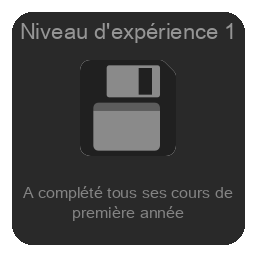
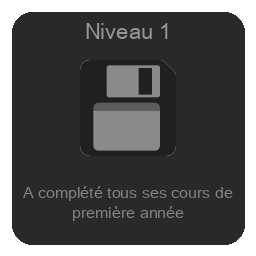
MàJ

Changed region(s): [[0.0625, 0.0938, 0.8438, 0.1562], [0.875, 0.0938, 0.9375, 0.1562]]

diff --git a/badges/README.md b/badges/README.md
@@ -1,3 +1,3 @@
 # 🎖 Badges générés
 
-![Brise-glace : A participé à l'activité brise-glace](brise_glace.png) ![Tome du savoir : A emprunté un document de la bibliothèque de la bibliographie suggérée](tome_savoir.png) ![Pilier de la communauté : A participé au comité étudiant](pilier_communaute.png) ![Sentinelle : A aidé à l'organisation du brise-glace (hors 1ère année)](sentinelle.png) ![Membre de la communauté : A participé à une activité du comité étudiant](membre_communaute.png) ![Tête chercheuse : A participé au tutorat en 1ère année](tete_chercheuse.png) ![Disciple aguerri : A participé au tutorat en 2ème année](disciple_aguerri.png) ![Flambeau du savoir : A été tutrice ou tuteur](flambeau_savoir.png) ![Héraut : A participé à faire rayonner le programme lors des portes ouvertes](heraut.png) ![Intendance extradimensionnelle : Responsabilité avec le prêt d'équipement collectif](intendance_extradimensionnelle.png) ![Scribe : A aidé à la mise à jour des badges](scribe.png) ![Quête optionnelle : A participé à un événement multimédia non requis](quete_optionnelle.png) ![Essayiste : A participé et été présent au concours d'essais audiovisuels](essayiste.png) ![Niveau d'expérience 1 : A complété tous ses cours de première année](niveau_experience_1.png) ![Niveau d'expérience 2 : A complété tous ses cours de deuxième année](niveau_experience_2.png) ![Niveau d'expérience 3 : A complété tous ses cours de troisième année](niveau_experience_3.png)
+![Brise-glace : A participé à l'activité brise-glace](brise_glace.png) ![Tome du savoir : A emprunté un document de la bibliothèque de la bibliographie suggérée](tome_savoir.png) ![Pilier : A participé au comité étudiant](pilier_communaute.png) ![Sentinelle : Non 1ère année qui a aidé à l'organisation du brise-glace](sentinelle.png) ![Participatif : A participé à une activité du comité étudiant](membre_communaute.png) ![Tête chercheuse : A participé au tutorat en 1ère année](tete_chercheuse.png) ![Disciple aguerri : A participé au tutorat en 2ème année](disciple_aguerri.png) ![Flambeau du savoir : A été tutrice ou tuteur](flambeau_savoir.png) ![Héraut : A participé à faire rayonner le programme lors des portes ouvertes](heraut.png) ![Intendance : Responsabilité avec le prêt d'équipement collectif](intendance_extradimensionnelle.png) ![Scribe : A aidé à la mise à jour des badges](scribe.png) ![Quête optionnelle : A participé à un événement multimédia non requis](quete_optionnelle.png) ![Essayiste : A participé et été présent au concours d'essais audiovisuels](essayiste.png) ![Niveau 1 : A complété tous ses cours de première année](niveau_experience_1.png) ![Niveau 2 : A complété tous ses cours de deuxième année](niveau_experience_2.png) ![Niveau 3 : A complété tous ses cours de troisième année](niveau_experience_3.png)
